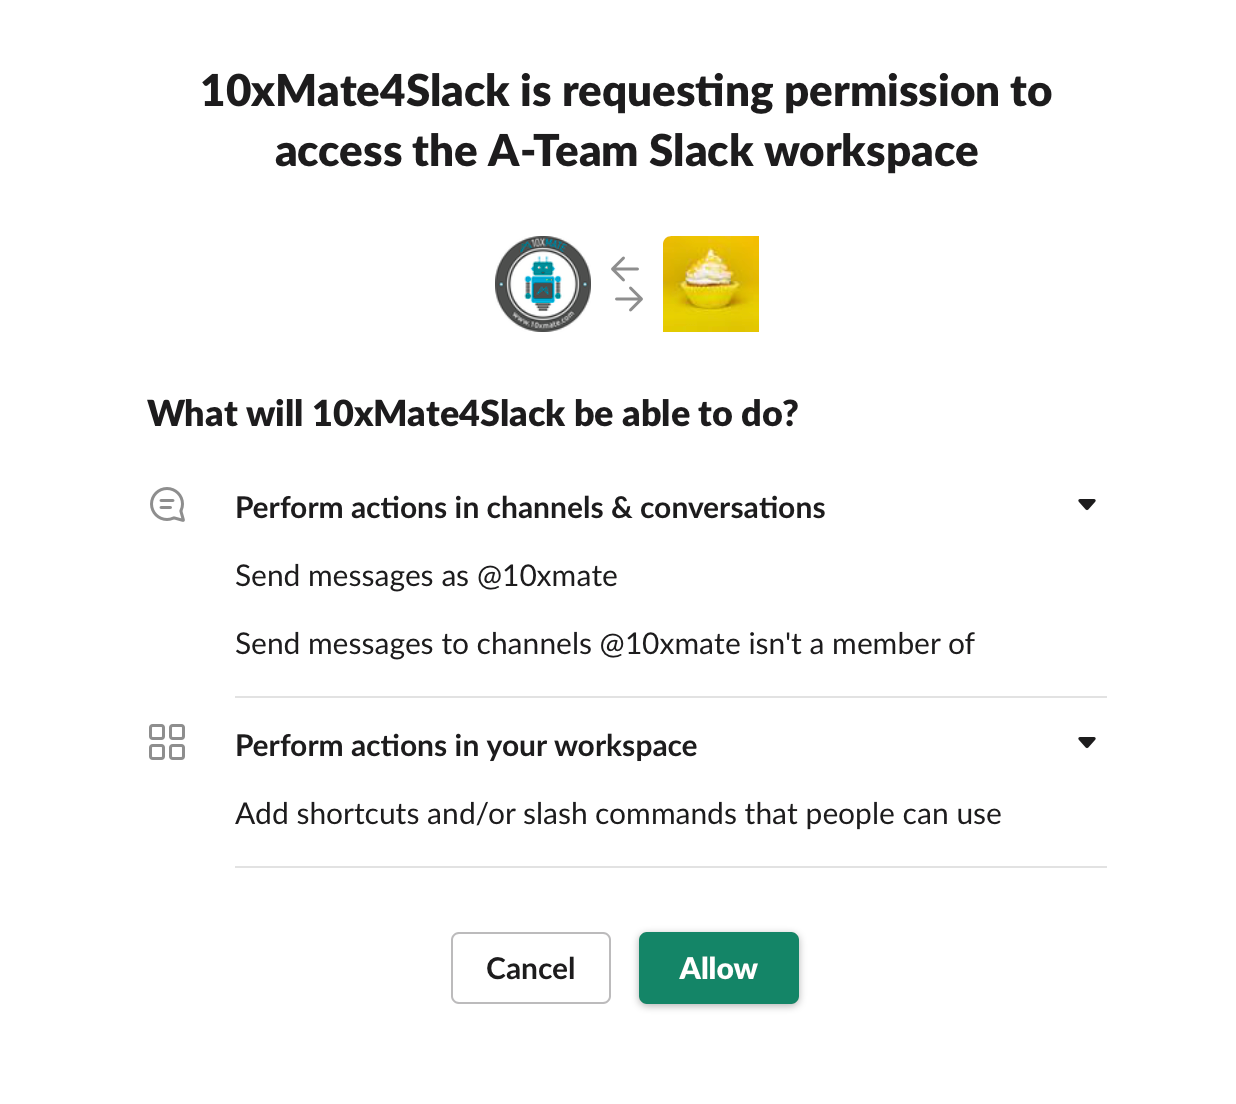
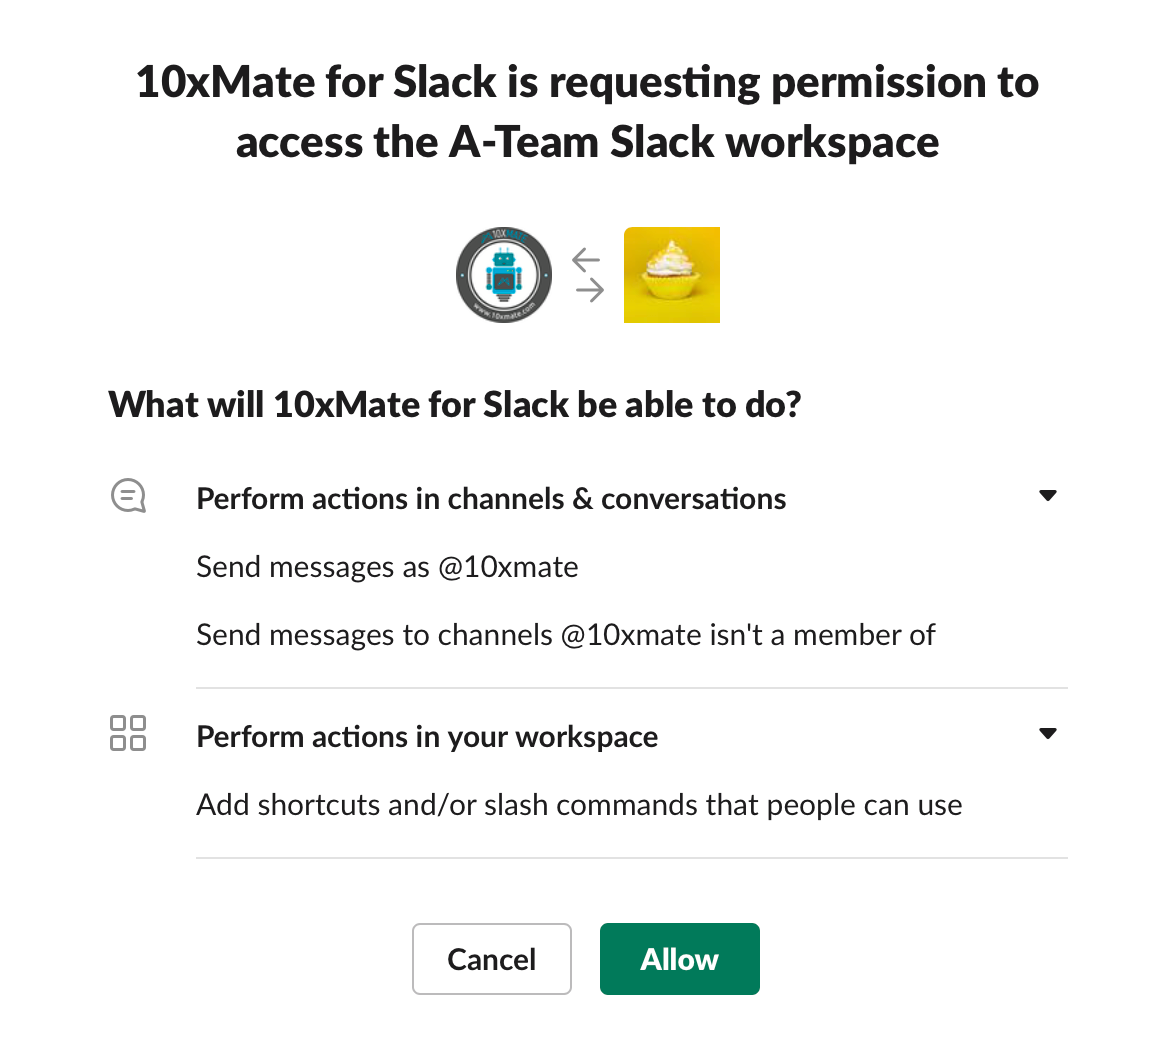
add video with subs

diff --git a/10xmate4slack/terms-of-use.html b/10xmate4slack/terms-of-use.html
@@ -105,13 +105,13 @@
                     <section class="content-block start-banner">
                         <div class="container">
                             <div class="heading bottom-space">
-                                <h2>10xmate4Slack Terms of Service</h2>
+                                <h2>10xMate for Slack Terms of Service</h2>
                             </div>
                             <div class="description">
 
                                 <h3>Effective Date: July 20th, 2020</h3>
                                 <p class='custom-p-bigger'>
-                                  These Terms of Service, together with our <a href="privacy-policy">Privacy Policy</a>, govern your use of the service we provide. The Terms apply to all users of the service. By accessing or using 10xMate4Slack, users (referred further in the Terms as “you) accept these terms and conditions in full. If you disagree with any part of the Terms, you must not use the service.
+                                  These Terms of Service, together with our <a href="privacy-policy">Privacy Policy</a>, govern your use of the service we provide. The Terms apply to all users of the service. By accessing or using 10xMate for Slack, users (referred further in the Terms as “you) accept these terms and conditions in full. If you disagree with any part of the Terms, you must not use the service.
                                 </p>
                             </div>
                         </div>
@@ -123,7 +123,7 @@
                           </div>
                           <div class="description">
                               <p class='custom-p-bigger'>
-                                The service is provided to businesses or organizations, where an individual (an “Administrator” for the respective Slack workspace) obtains access to the service on behalf of the organization and all users. The Administrator uses their account with Slack to install the 10xMate4Slack application to the organization’s Slack workspace, confirming organization’s consent to the application’s requirements for the installation. It is the Administrator’s obligation to ensure that all users read and comply with the Terms of Service.
+                                The service is provided to businesses or organizations, where an individual (an “Administrator” for the respective Slack workspace) obtains access to the service on behalf of the organization and all users. The Administrator uses their account with Slack to install the 10xMate for Slack application to the organization’s Slack workspace, confirming organization’s consent to the application’s requirements for the installation. It is the Administrator’s obligation to ensure that all users read and comply with the Terms of Service.
                               </p>
                           </div>
                         </div>
@@ -146,7 +146,7 @@
                               We may terminate or suspend your use of the service at our own discretion, immediately and without prior notice or liability, for any reason, including but not limited to your violation of these Terms or in case we believe there is a risk of harm to us, users, or any third party.
                             </p>
                             <p class='custom-p-bigger'>
-                              You may terminate your use of the service at any time by removing 10xMate4Slack from your Slack workspace.
+                              You may terminate your use of the service at any time by removing 10xMate for Slack from your Slack workspace.
                             </p>
                           </div>
                         </div>
@@ -163,7 +163,7 @@
                                 Publish through our service any information that: (i) is offensive, vulgar or pornographic; (ii) promotes discrimination, racism, harassment or hatred; (iii) violates any applicable law or regulation; (iv) is fraudulent, false, misleading or deceptive; (v) infringes, misappropriates or violates a third party’s copyright, trademark or other intellectual property rights.
                               </li>
                               <li>
-                                Use the service or any individual element of the service, 10xMate4Slack’s name, logo or other proprietary information, or the design of any page or form contained on a page, without our express written consent.
+                                Use the service or any individual element of the service, 10xMate for Slack’s name, logo or other proprietary information, or the design of any page or form contained on a page, without our express written consent.
                               </li>
                               <li>
                                 Publish or distribute any material which consists of (or is linked to) any spyware, computer virus, keystroke logger or other malicious computer software.
@@ -225,7 +225,7 @@
                           </div>
                           <div class="description">
                             <p class='custom-p-bigger'>
-                              10xMate4Slack is provided free of charge. However, you may have to pay third-party fees that you will incur using our service, such as your Slack subscription or any fees charged by your Internet access provider.
+                              10xMate for Slack is provided free of charge. However, you may have to pay third-party fees that you will incur using our service, such as your Slack subscription or any fees charged by your Internet access provider.
                             </p>
                           </div>
                         </div>

diff --git a/10xmate4slack/index.html b/10xmate4slack/index.html
@@ -105,7 +105,7 @@
                 <div class="banner banner-home home-page-banner">
                     <div id="home-page-video-div" class="fullscreen-container">
                         <!-- <video class="my-video-frame" autoplay loop muted playsinline src="videos/Movie_Robotko_2.mp4"</video> -->
-                        <div id="iframe-wrapper"><iframe class="embeded-vimeo-iframe" src="https://player.vimeo.com/video/429962198?autoplay=1&loop=1" frameborder="0" allow="autoplay; fullscreen" allowfullscreen></iframe></div><script src="https://player.vimeo.com/api/player.js"></script>
+                        <div id="iframe-wrapper"><iframe class="embeded-vimeo-iframe" src="https://player.vimeo.com/video/442289091?autoplay=1&loop=1&texttrack=en-US" frameborder="0" allow="autoplay; fullscreen" allowfullscreen></iframe></div><script src="https://player.vimeo.com/api/player.js"></script>
                         </div>
                 </div>
                 <!--/visual/banner of the page -->
@@ -152,6 +152,14 @@
                                           We decided to create this app for all the people who work in isolation at home, who may feel disconnected and miss their team, due to Covid-19. We believe everyone needs positive energy, especially now and since we can’t send cards to all to make them happier, we decided to support others by providing a free and cool way to spread good vibes.
                                         </p>
                                         <a class="slack-btn-add" href="https://slack.com/oauth/v2/authorize?client_id=669779717541.1222413208497&scope=chat:write,chat:write.public,commands&user_scope="><img alt="Add to Slack" height="40" width="139" src="https://platform.slack-edge.com/img/add_to_slack.png" srcSet="https://platform.slack-edge.com/img/add_to_slack.png 1x, https://platform.slack-edge.com/img/add_to_slack@2x.png 2x" /></a>
+
+                                        <!-- <a
+                                          class="btn btn-secondary slack-btn"
+                                          href="https://slack.com/oauth/v2/authorize?client_id=669779717541.1222413208497&scope=chat:write,chat:write.public,commands&user_scope="
+                                        >
+                                          <span>Add to </span>
+                                          <img src="../img/Slack_RGB_White.png" width="80" alt="Slack"/>
+                                        </a> -->
                                     </div>
                                 </div>
                             </div>

diff --git a/10xmate4slack/welcome.html b/10xmate4slack/welcome.html
@@ -1,18 +1,18 @@
 <!DOCTYPE html>
 <html lang="en">
   <head>
-    <title>10xmate recognition and rewards | Welcome</title>
+    <title>10xmate for Slack | Welcome</title>
     <meta http-equiv="Content-Type" content="text/html; charset=utf-8" />
     <meta
       name="description"
-      content="Welcome to 10xMate4Slack - Send good vibes to your colleagues via Slack."
+      content="Welcome to 10xMate for Slack - Send good vibes to your colleagues via Slack."
     />
     <meta property="og:locale" content="en_US" />
     <meta property="og:type" content="website" />
-    <meta property="og:title" content="10xMate4Slack or 10xMate for Slack" />
+    <meta property="og:title" content="10xMate for Slack or 10xMate for Slack" />
     <meta
       property="og:description"
-      content="10xMate4Slack - Send good vibes to your colleagues via Slack."
+      content="10xMate for Slack - Send good vibes to your colleagues via Slack."
     />
     <meta property="og:url" content="https://10xmate.com/calculator" />
     <meta property="og:site_name" content="10xmate" />
@@ -222,7 +222,7 @@
             <section class="content-block">
                 <div class="container">
                     <div class="heading bottom-space">
-                        <h1>Welcome to 10xMate4Slack!</h1>
+                        <h1>Welcome to 10xMate for Slack!</h1>
                     </div>
                     <div class="description bottom-space">
                         <p class='custom-p-bigger'>

diff --git a/10xmate4slack/privacy-policy.html b/10xmate4slack/privacy-policy.html
@@ -105,17 +105,17 @@
                     <section class="content-block start-banner">
                         <div class="container">
                             <div class="heading bottom-space">
-                                <h2>10xmate4Slack Privacy Policy</h2>
+                                <h2>10xmate for Slack Privacy Policy</h2>
                             </div>
                             <div class="description">
 
                                 <h3>Effective Date: July 20th, 2020</h3>
                                 <p class='custom-p-bigger'>
-                                  This page informs you of our policies regarding the collection, use, disclosure and retention of information that we receive when you use 10xMate4Slack.
+                                  This page informs you of our policies regarding the collection, use, disclosure and retention of information that we receive when you use 10xMate for Slack.
 By using the app, you agree to our terms and policies and consent to the collection, use, disclosure and retention of the information in accordance with this Policy.
 </p>
 <p class='custom-p-bigger'>
-For the purposes of this document, we will refer to the 10xMate4Slack application as ‘the app’ or ‘this app’.
+For the purposes of this document, we will refer to the 10xMate for Slack application as ‘the app’ or ‘this app’.
                                 </p>
                             </div>
                         </div>
